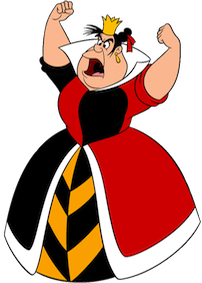
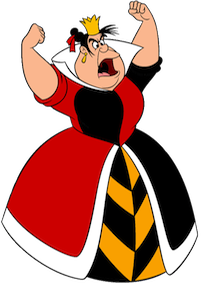
alice cat

diff --git a/style/style.css b/style/style.css
@@ -1,19 +1,20 @@
 html {
     background-image: url('bg.jpg');
     background-attachment: fixed;
-    position: relative;/*
+    position: relative;
     width: 100%;
-    height: 100%;
+    height: 100%;/*
     padding: 50px 0;*/
 }
 
 body {
     background-image: url('queen.png');
     background-repeat: no-repeat;
-    background-position: bottom right;
-    width: 90%;
-    height: 90%;
+    background-position: bottom left;
+    width: 100%;
+    height: 100%;
     padding: 50px 0;
+    margin: 0;
 }
 
 * { 
@@ -33,7 +34,11 @@ header {
     box-shadow: 0 0 2px 1px #999;
     margin: 0 auto 30px;
     padding: 30px 10px;
-    width: 150px;
+    width: 300px;
+}
+
+header h1 {
+    font-family: 'Croissant One', cursive;
 }
 
 header input, 
@@ -66,6 +71,54 @@ header button:active {
    background: -o-linear-gradient(top, #eeeeee, #cccccc);
    color: #333333;
    }
+
+#solve {
+    position: absolute;
+    bottom: 0;
+    right: 0;
+}
+
+#solve img.cat {
+    cursor: pointer;
+    opacity: 0.3;
+    transition: opacity 2s 1s;
+    -moz-transition: opacity 2s 1s; /* Firefox 4 */
+    -webkit-transition: opacity 2s 1s; /* Safari and Chrome */
+    -o-transition: opacity 2s 1s; /* Opera */
+}
+
+#solve p {
+    background-image: url('text.png');
+    font-family: 'Croissant One', cursive;
+    opacity: 0;
+    position: absolute;
+    font-size: 10px;
+    height: 87px;
+    line-height: 70px;
+    vertical-align: middle;
+    width: 127px;
+    text-align: center;
+    transition: opacity 2s;
+    -moz-transition: opacity 2s; /* Firefox 4 */
+    -webkit-transition: opacity 2s; /* Safari and Chrome */
+    -o-transition: opacity 2s; /* Opera */
+}
+
+#solve:hover p {
+    opacity: 1;
+    transition: opacity 2s 1s;
+    -moz-transition: opacity 2s 1s;  /* Firefox 4 */
+    -webkit-transition: opacity 2s 1s; /* Safari and Chrome */
+    -o-transition: opacity 2s 1s; /* Opera */
+}
+
+#solve:hover img.cat {
+    opacity: 1;
+    transition: opacity 2s;
+    -moz-transition: opacity 2s; /* Firefox 4 */
+    -webkit-transition: opacity 2s; /* Safari and Chrome */
+    -o-transition: opacity 2s; /* Opera */
+}
 
 #queen {
     position: absolute;
@@ -109,5 +162,5 @@ header button:active {
 }
 
 .bc {
-    background-color: yellow;
+    background: rgba(255,255,255,0.9);
 }

diff --git a/index.html b/index.html
@@ -3,18 +3,25 @@
     <head>
         <title>Maze</title>
         <link rel="stylesheet" href="style/style.css">
+        <link href='http://fonts.googleapis.com/css?family=Croissant+One' rel='stylesheet' type='text/css'>
     </head>
     <body>
         <header>
+            <h1>Le labyrinthe</h1>
             <input type="text" id="width" value="5">
             <input type="text" id="height" value="5">
-            <button id="generate">Generate</button>
-            <button id="solve">Solve</button>
+            <button id="generate">Afficher</button>
+            <!-- <button id="solve">Solve</button> -->
         </header>
-        
+
         <!-- <img id="queen" src="style/queen.png"> -->
 
         <div id="content">
+        </div>
+
+        <div id="solve">
+            <p class="text" src="style/text.png">Tu veux la solution?</p>
+            <img class="cat" src="style/cat.png">
         </div>
 
 
